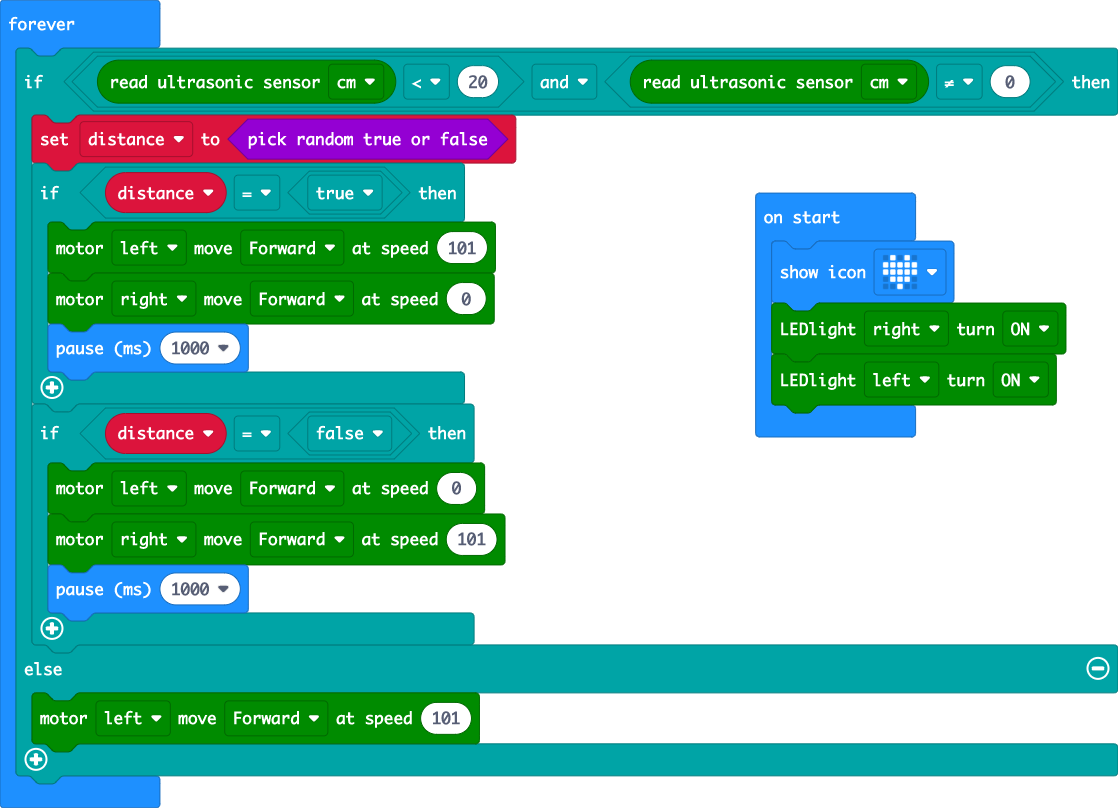
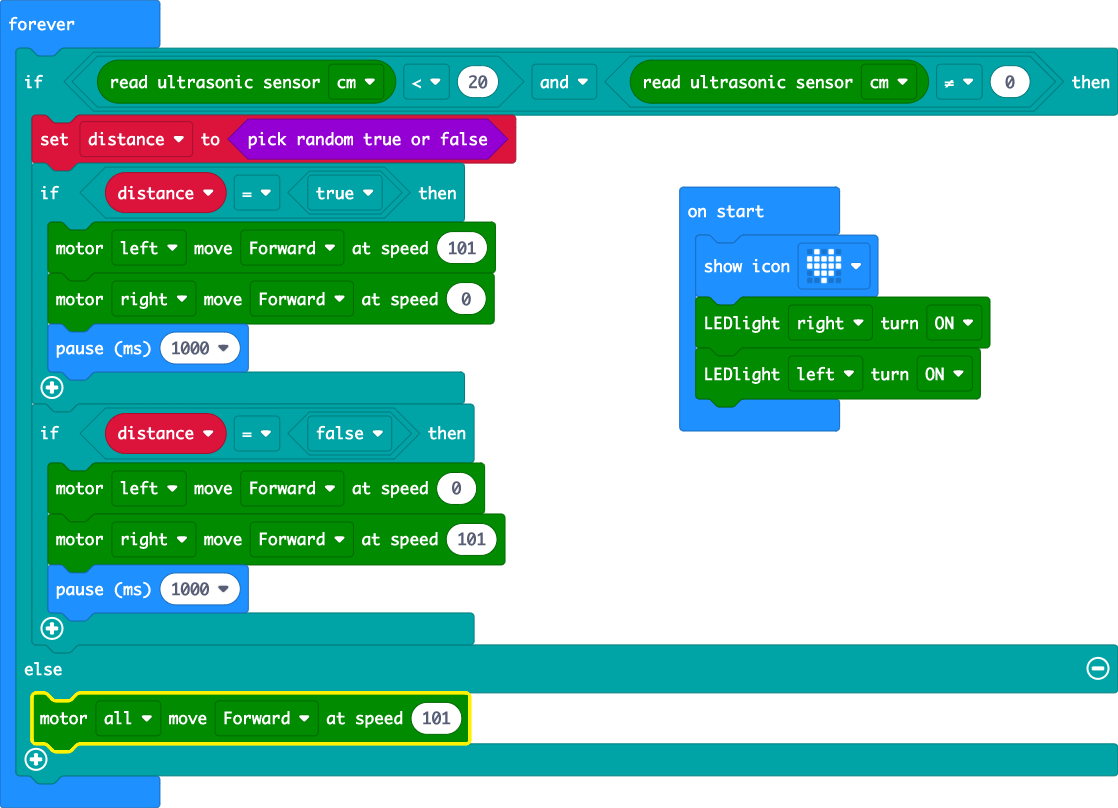
Update pxt.json, main.blocks, main.ts, main.py

Changed region(s): [[0.6082, 0.2166, 0.9732, 0.5569], [0.0304, 0.8354, 0.4562, 0.9282], [0.0, 0.8663, 0.0304, 0.8973]]

diff --git a/main.ts b/main.ts
@@ -16,6 +16,6 @@ basic.forever(function () {
             basic.pause(1000)
         }
     } else {
-        maqueen.motorRun(maqueen.Motors.M1, maqueen.Dir.CW, 101)
+        maqueen.motorRun(maqueen.Motors.All, maqueen.Dir.CW, 101)
     }
 })

diff --git a/main.py b/main.py
@@ -1,0 +1,20 @@
+distance = False
+basic.show_icon(IconNames.HEART)
+maqueen.write_led(maqueen.LED.LED_RIGHT, maqueen.LEDswitch.TURN_ON)
+maqueen.write_led(maqueen.LED.LED_LEFT, maqueen.LEDswitch.TURN_ON)
+
+def on_forever():
+    global distance
+    if maqueen.ultrasonic(PingUnit.CENTIMETERS) < 20 and maqueen.ultrasonic(PingUnit.CENTIMETERS) != 0:
+        distance = Math.random_boolean()
+        if distance == True:
+            maqueen.motor_run(maqueen.Motors.M1, maqueen.Dir.CW, 101)
+            maqueen.motor_run(maqueen.Motors.M2, maqueen.Dir.CW, 0)
+            basic.pause(1000)
+        if distance == False:
+            maqueen.motor_run(maqueen.Motors.M1, maqueen.Dir.CW, 0)
+            maqueen.motor_run(maqueen.Motors.M2, maqueen.Dir.CW, 101)
+            basic.pause(1000)
+    else:
+        maqueen.motor_run(maqueen.Motors.M1, maqueen.Dir.CW, 101)
+basic.forever(on_forever)
